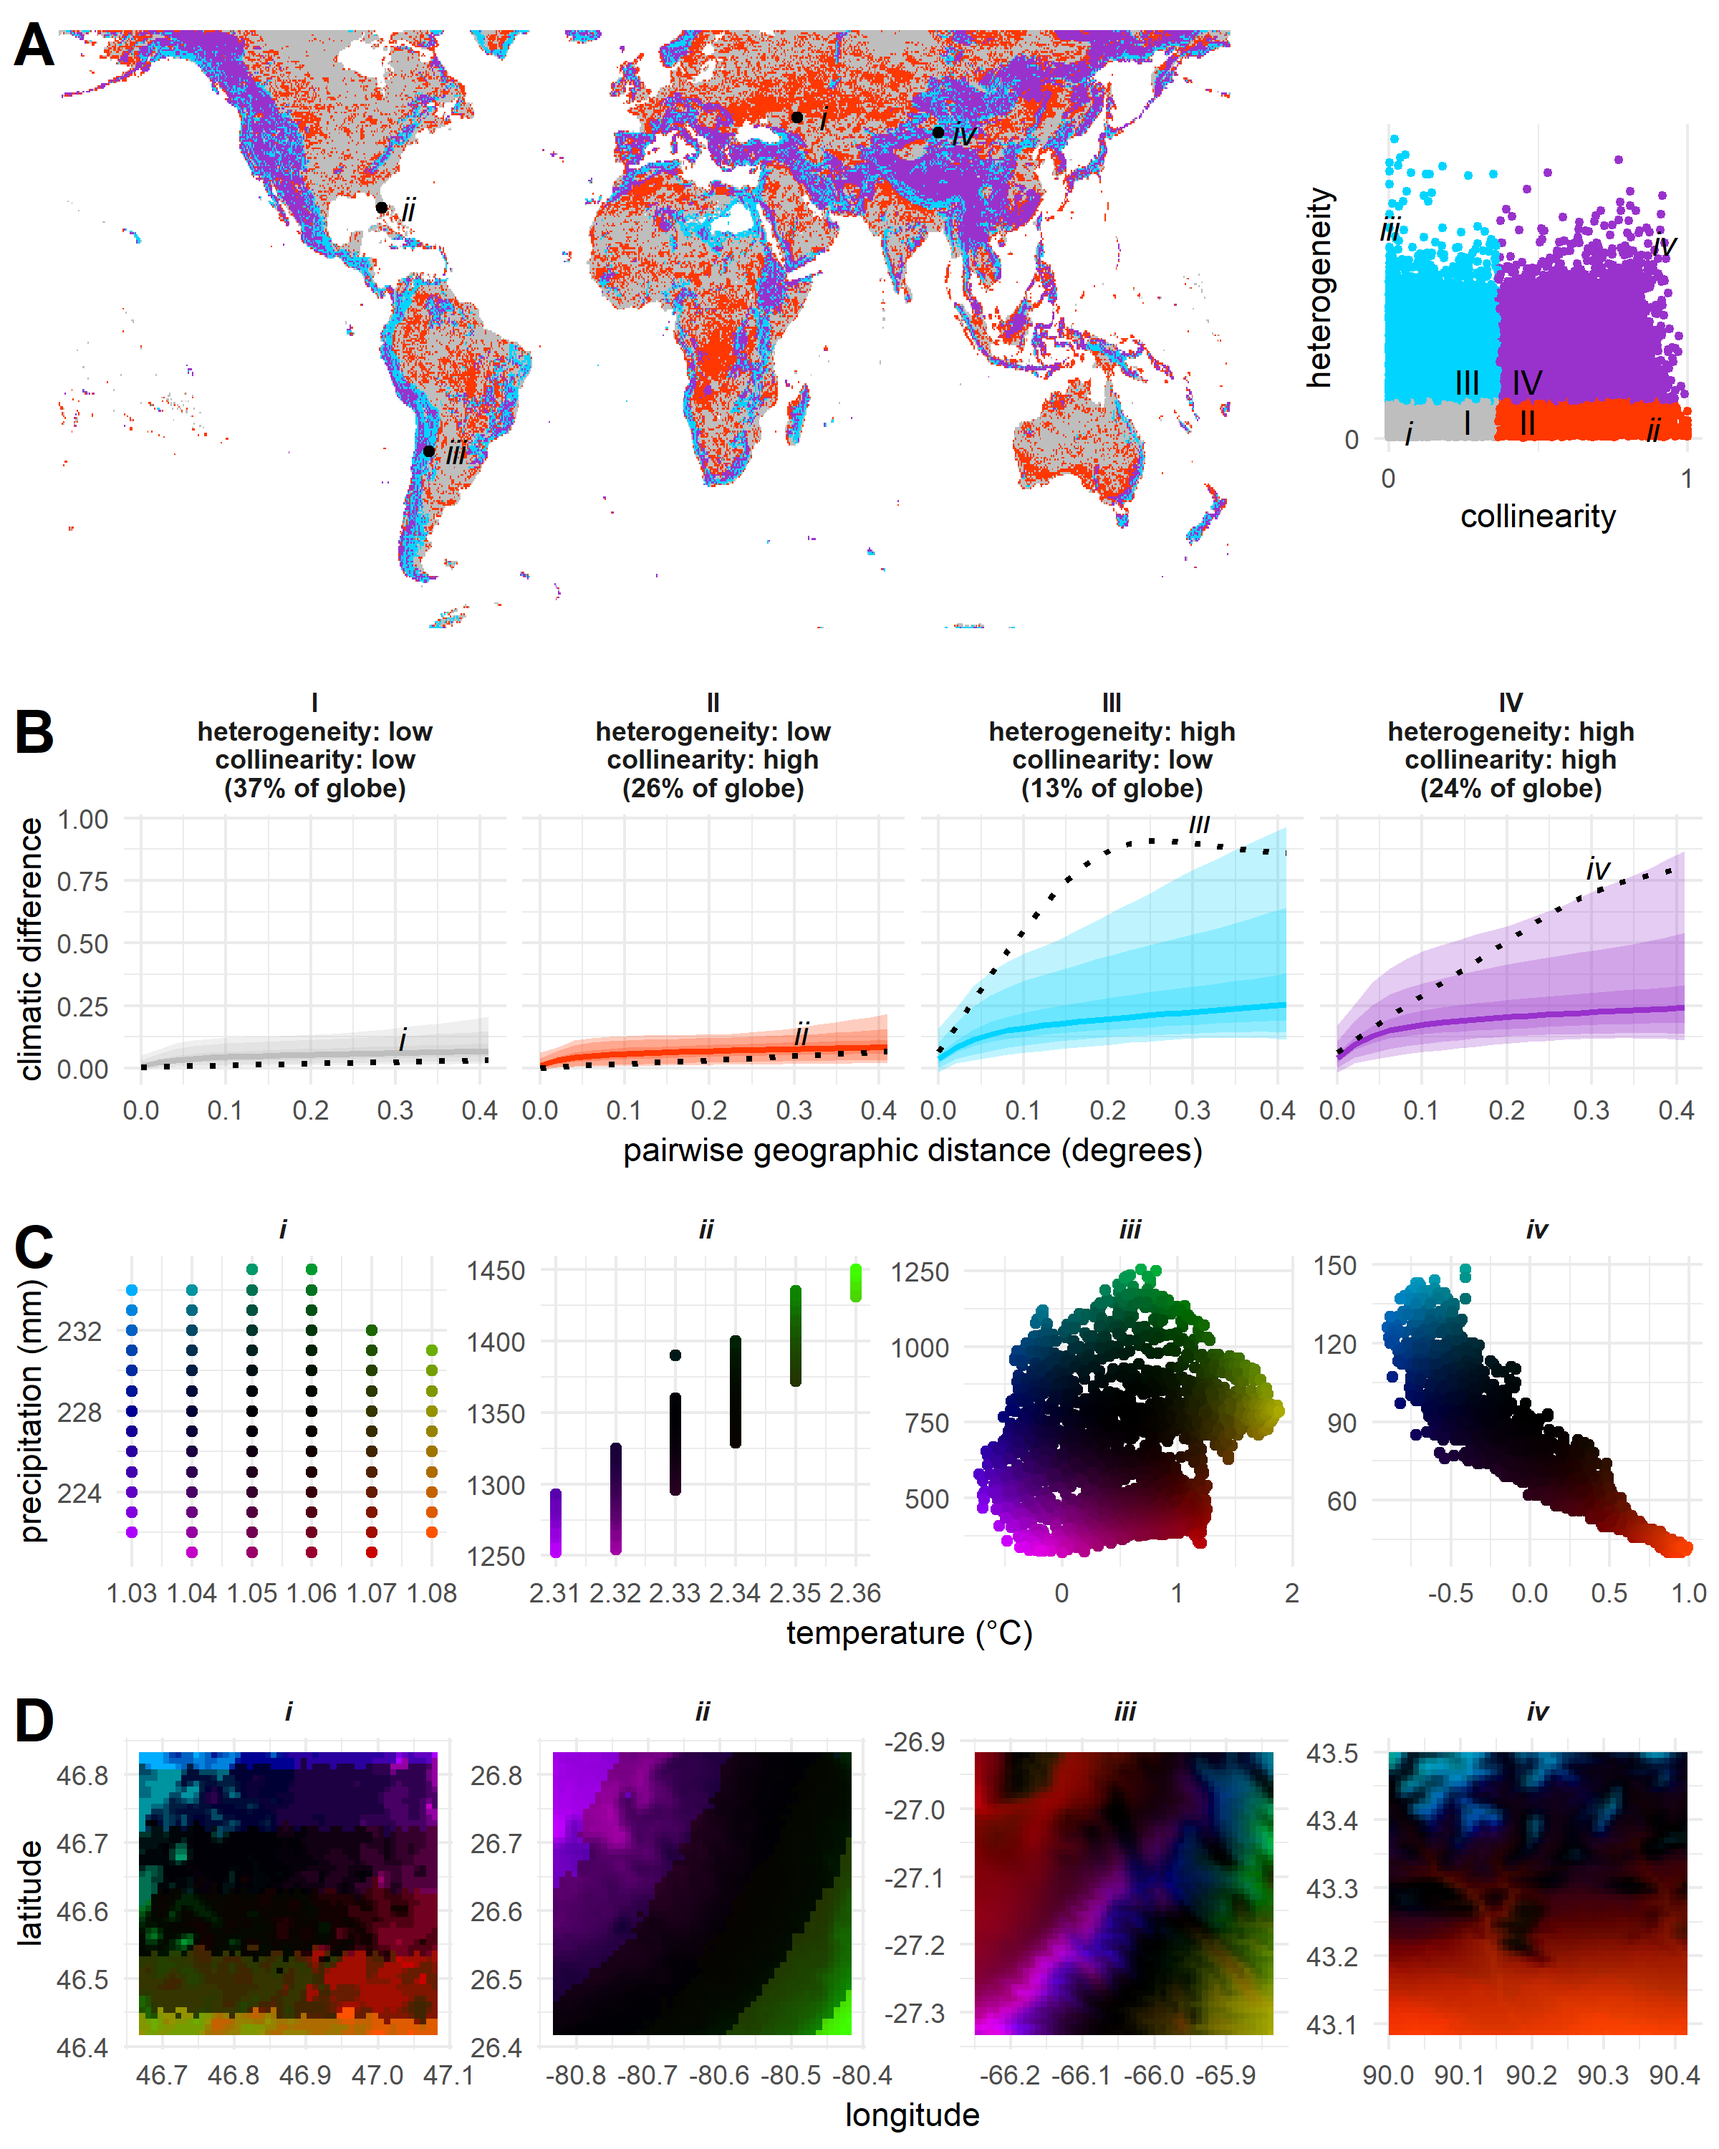
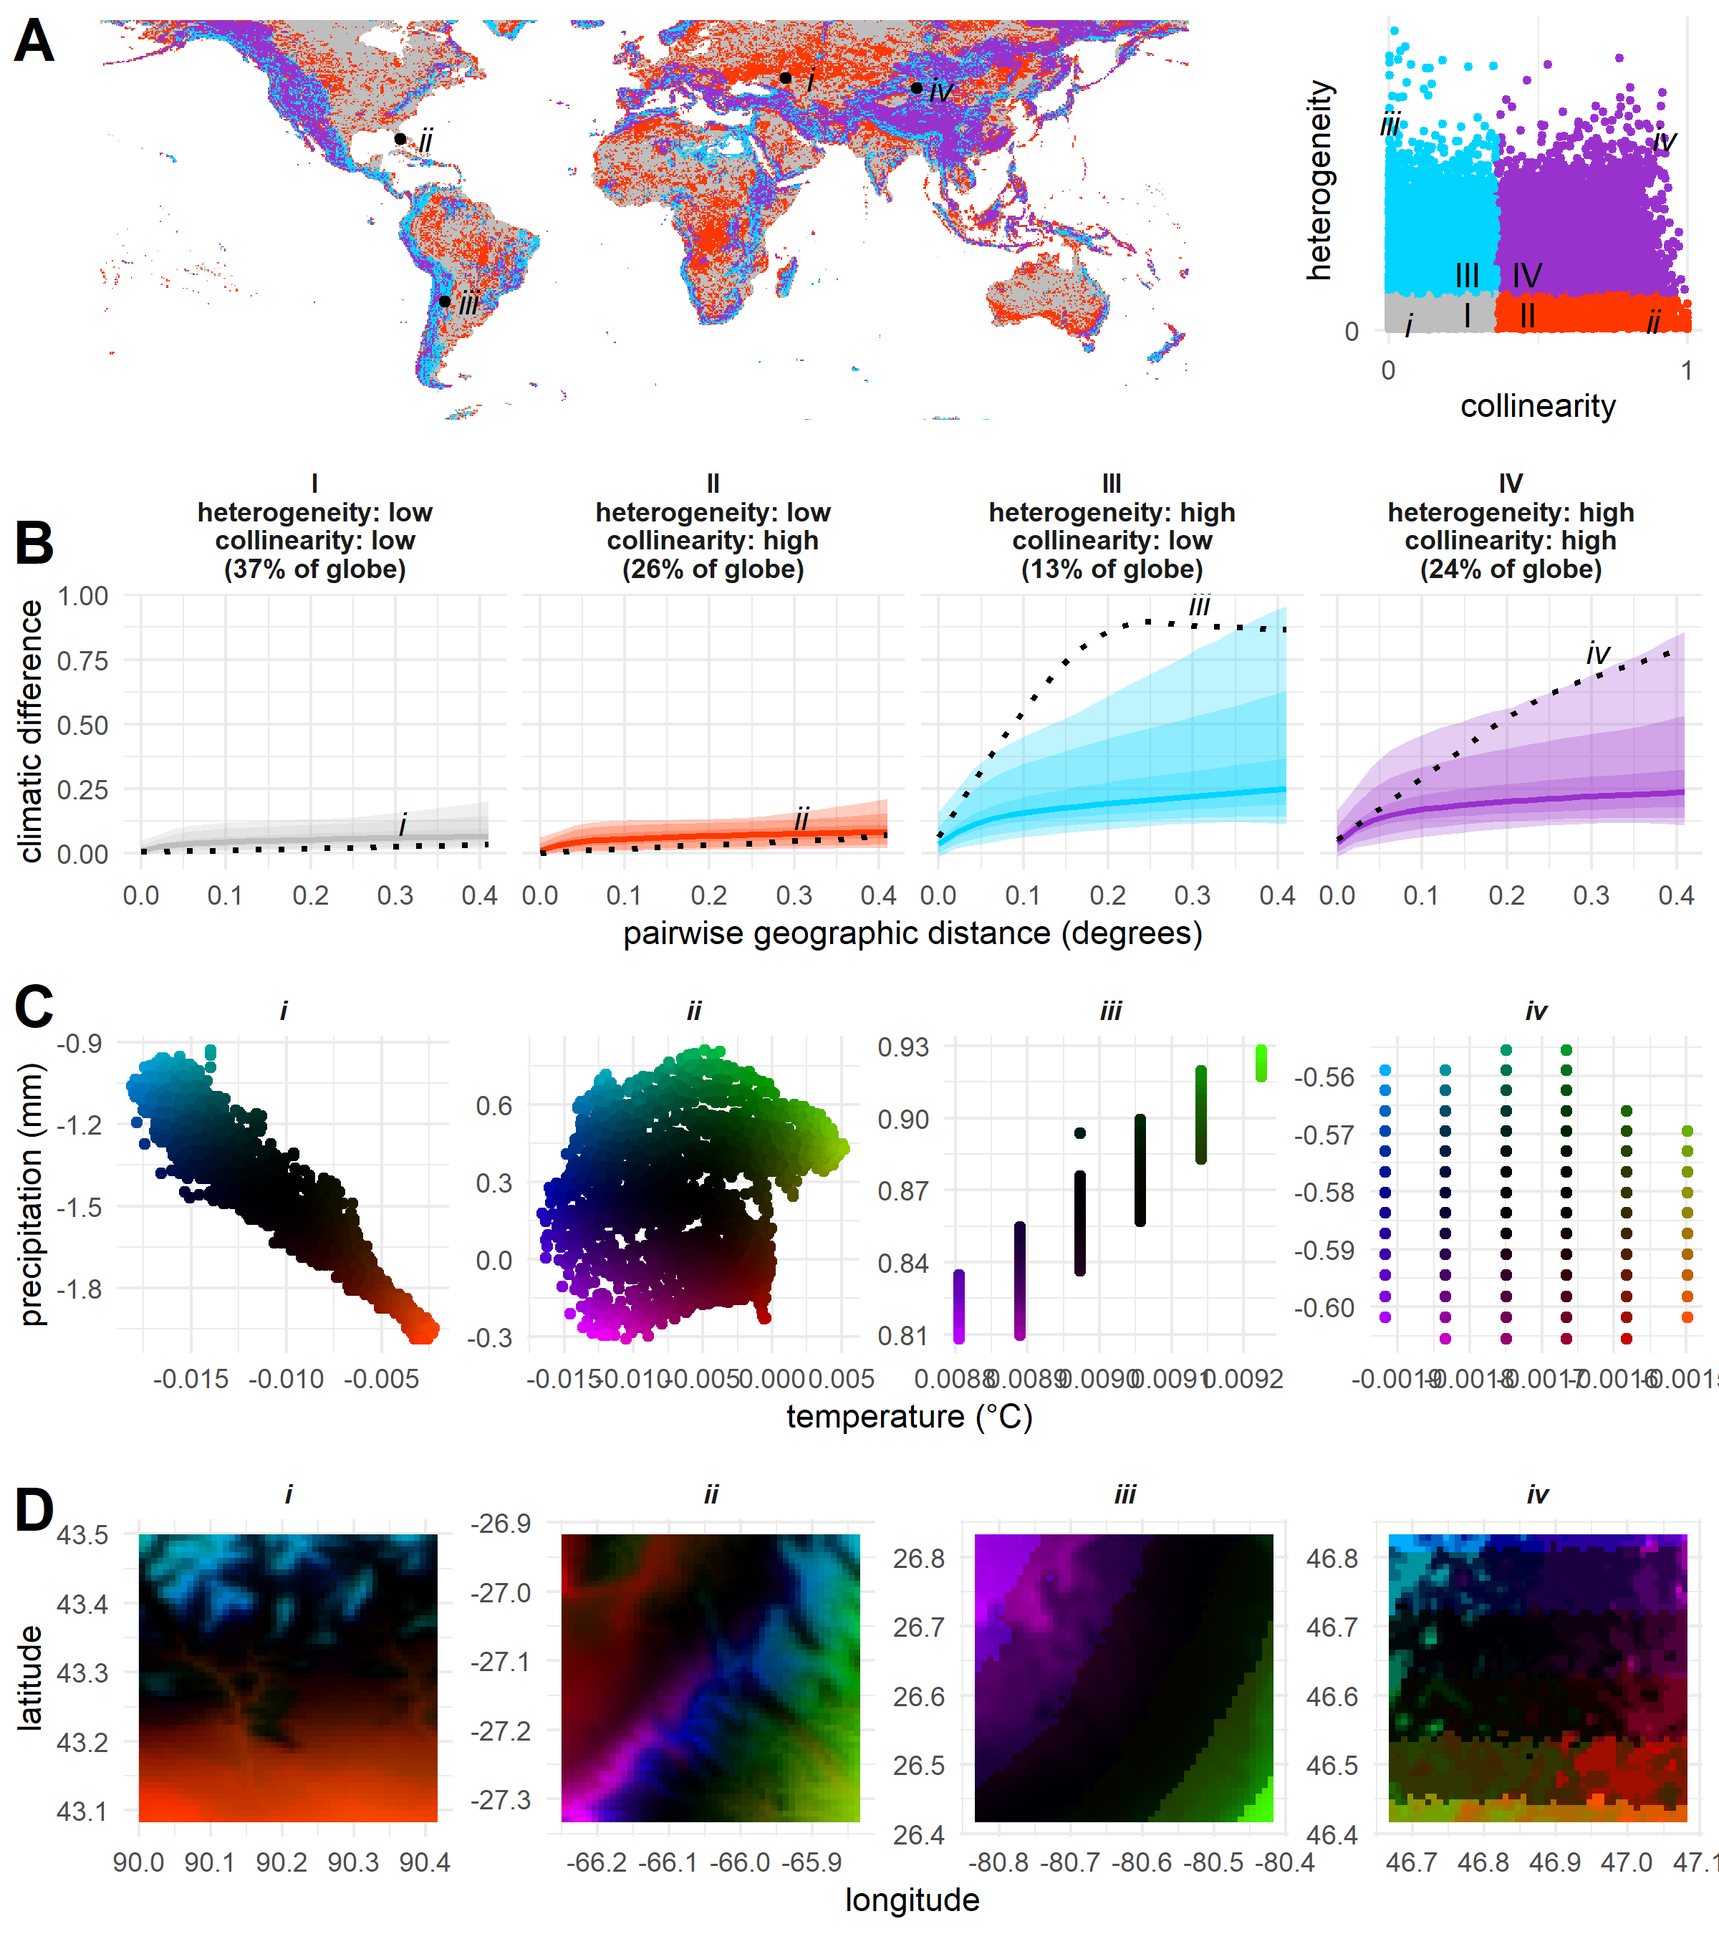
figure tweaks; log(ppt + 1)

diff --git a/README.md b/README.md
@@ -1,2 +1,2 @@
 # range-edges
-This repository contains R code accompanying the manuscript ***MF Oldfather, SN Sheth, MM Kling, NC Emery, and DD Ackerly. Range edges in heterogeneous landscapes: incorporating realistic landscapes into range dynamics***, currently in review.
+This repository contains R code accompanying the manuscript ***MF Oldfather, MM Kling, SN Sheth, NC Emery, and DD Ackerly. Range edges in heterogeneous landscapes: incorporating realistic landscapes into range dynamics. Global Change Biology.***, currently in press.
